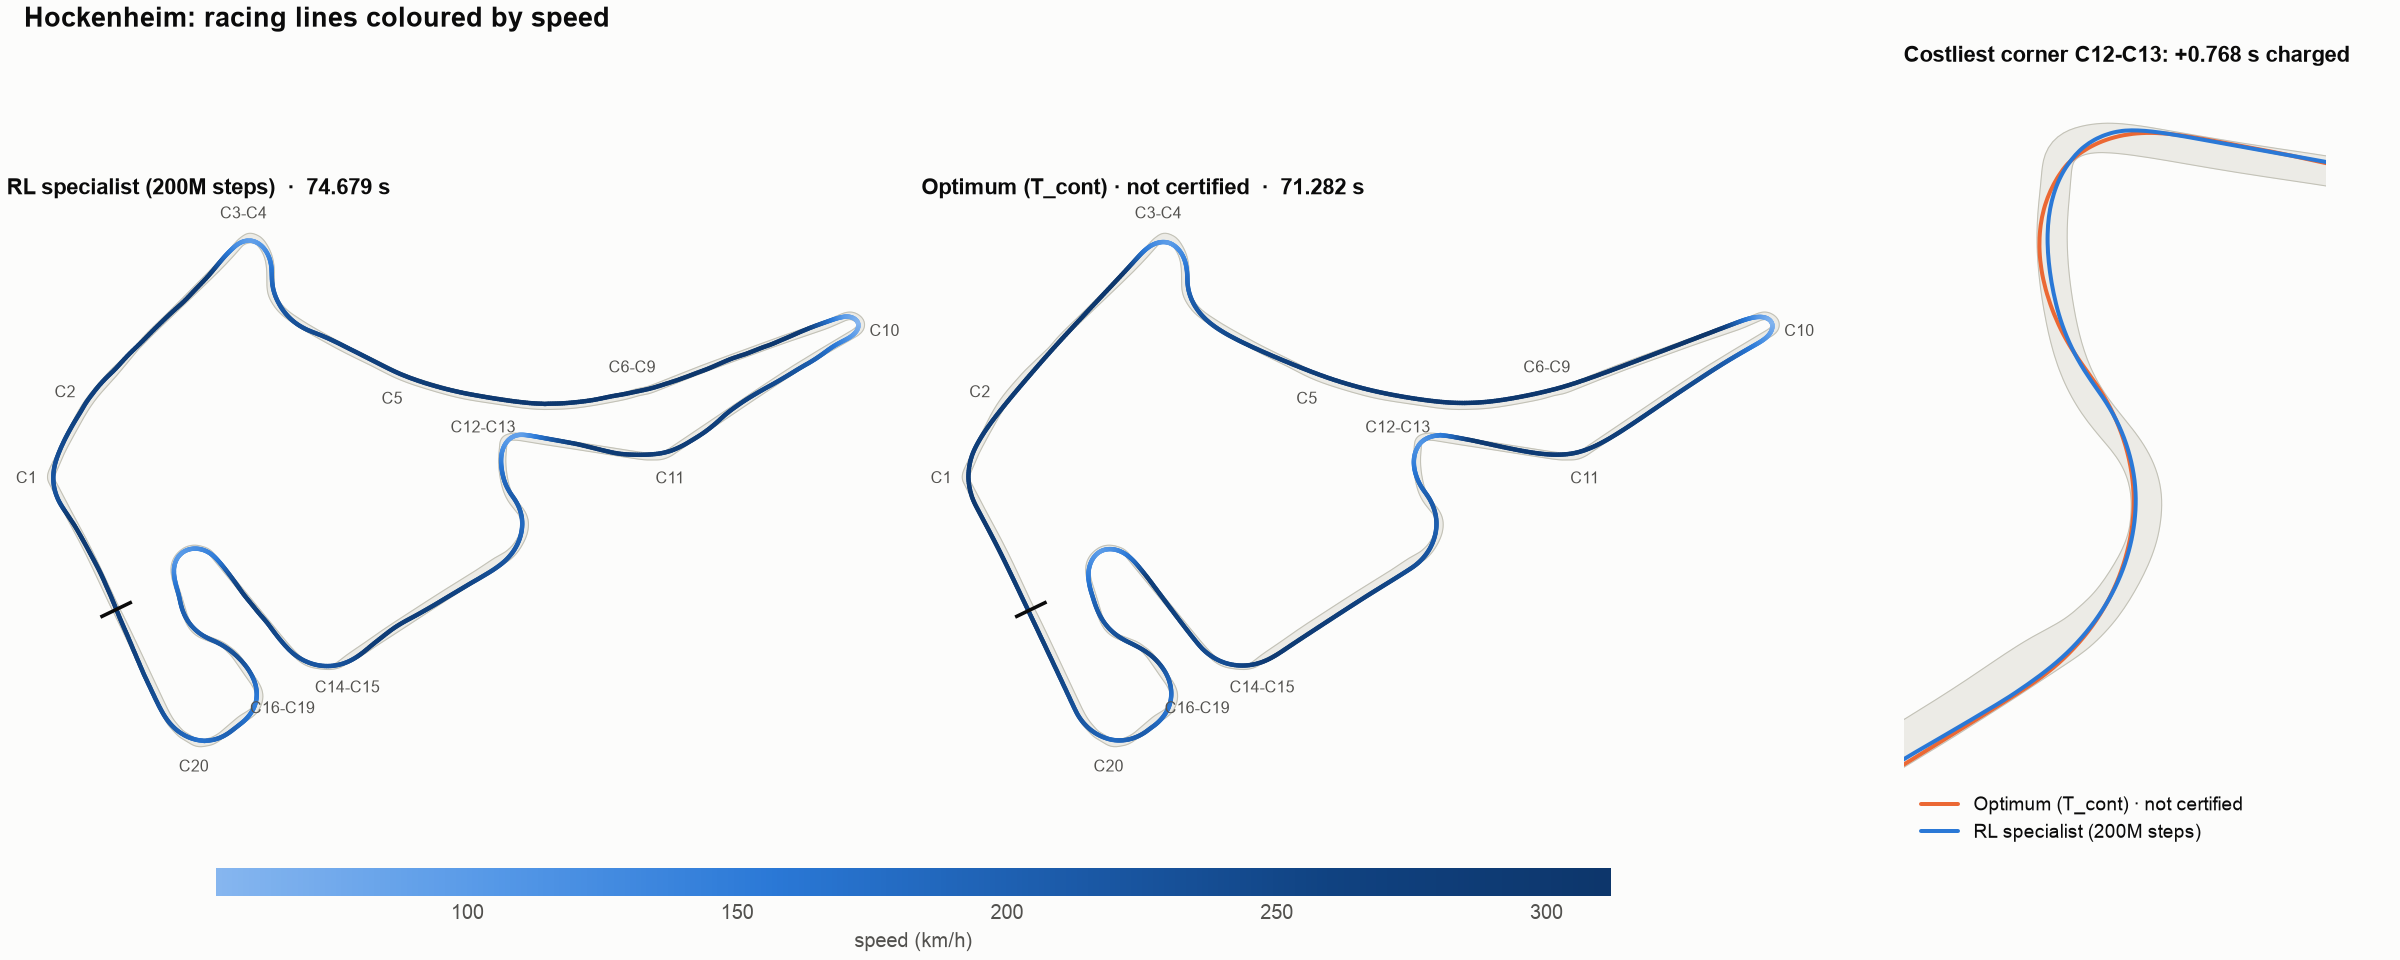
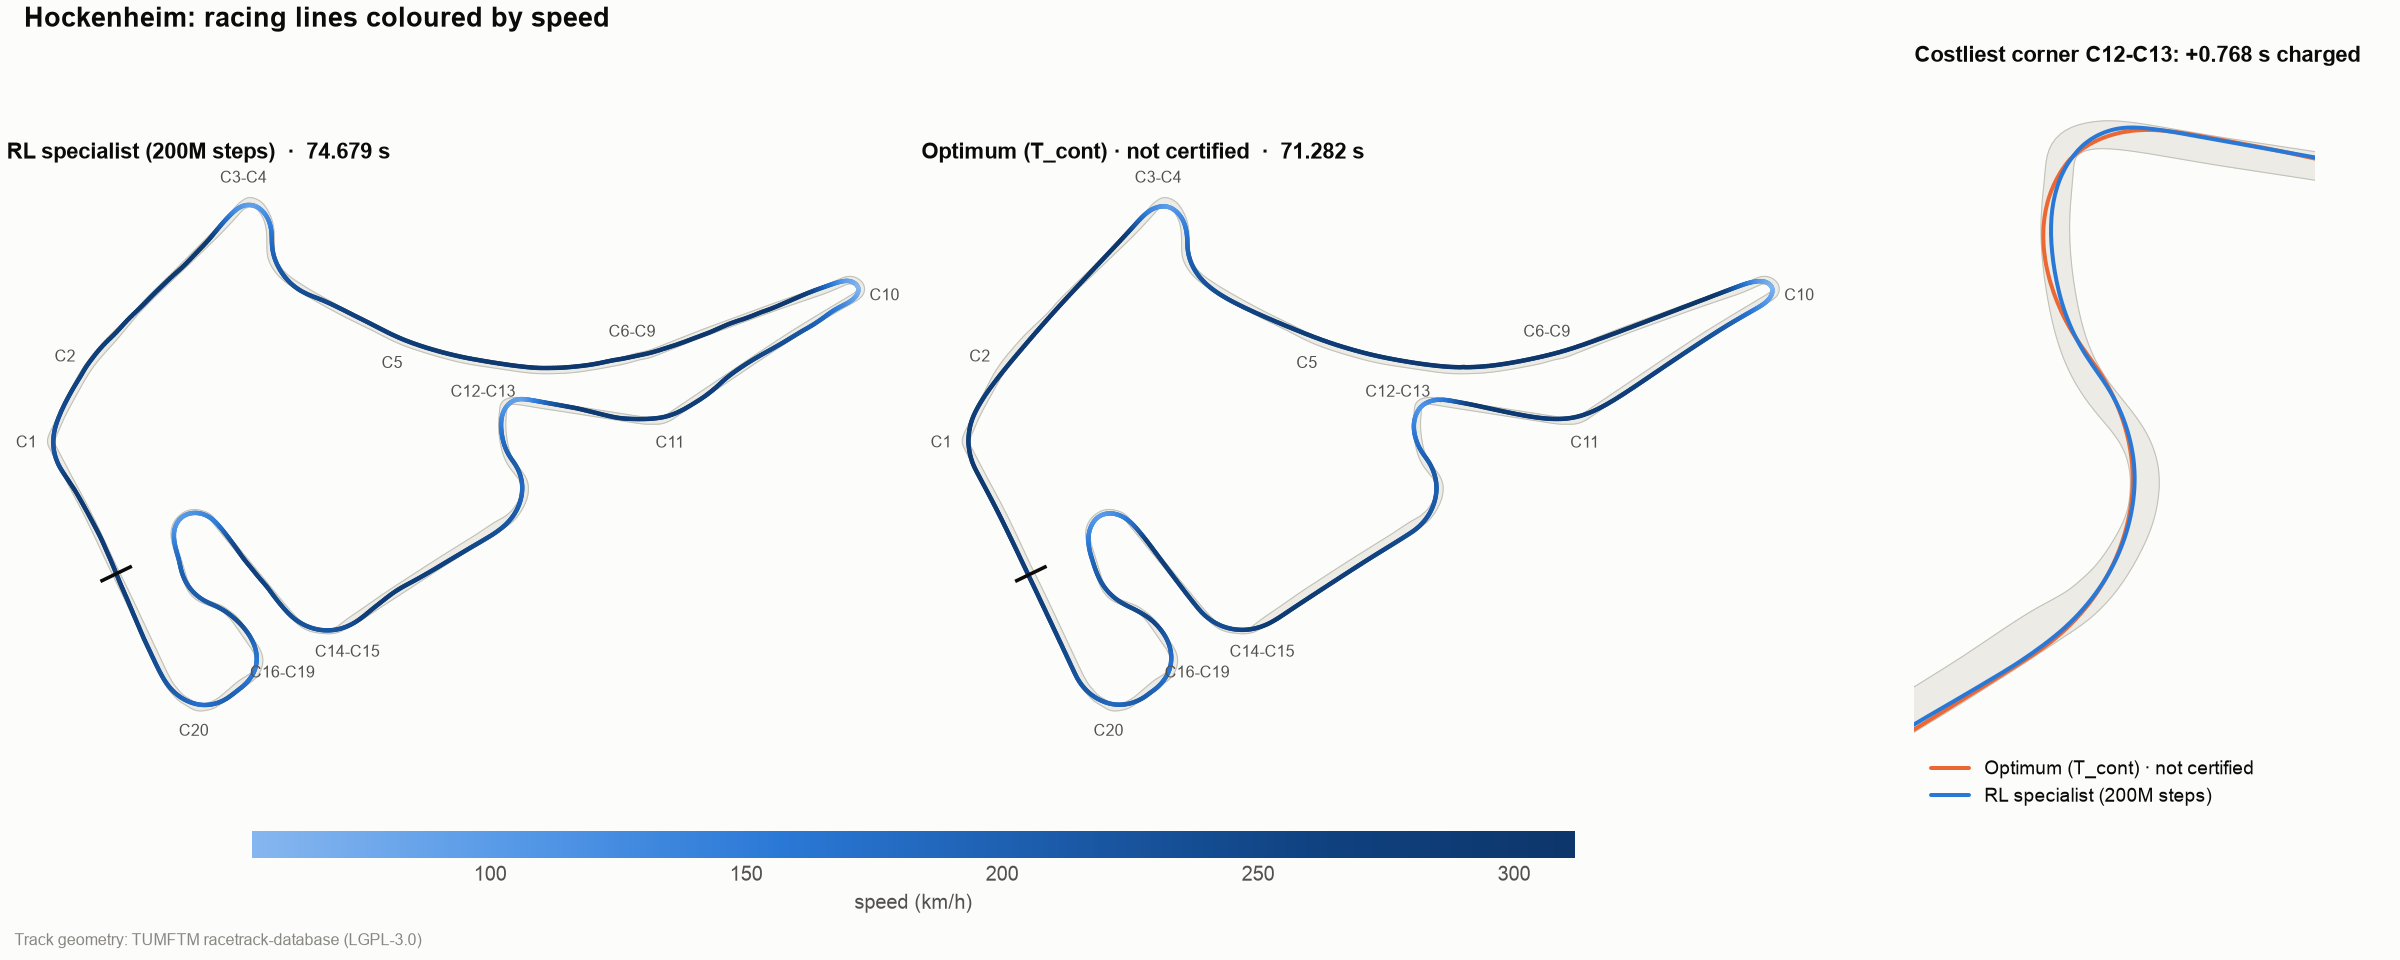
Demo: MVP-1 lite clip and a POST HOC R-dev generalist ghost (DM-1)
MVP-1 lite: the Hockenheim specialist against the optimum's ghost, the
optimum tagged NOT CERTIFIED (T_cont, not the replay-verified answer key).
The full timed lap plays at 1.3x real time, 60.0 s with the hold, and its
Delta-t ends at +3.397 s, the export's lap delta. Committed: two stills
(the costliest corner, C12-C13, and the finish).

Generalist ghost: the final checkpoint of dr-realw-loo-f2-s1 on Catalunya,
badged POST HOC, because it was shown for completing the most R-dev
circuits (11 of 12) of the leave-out runs, not by a pre-registered rule.
Catalunya's widths were held out of its training, but its curvature
grammar was fitted on all 12 R-dev circuits. The lap is 81.154 s against
the optimum's 75.647 s (+7.28%, matching eval_rdev.json). Committed: the
three figures and two stills.

Every committed figure and still carries the TUMFTM (LGPL-3.0) footer, and
the Hockenheim figures are regenerated with it; their numbers are unchanged.
The exports, viewer pages, WebP previews and PNG masters stay local
(git-ignored). docs/demo/README.md has the regeneration commands.

diff --git a/docs/demo/README.md b/docs/demo/README.md
@@ -10,11 +10,19 @@ Hockenheim specialist and the s-domain OCP). Re-run them on final agents with th
 | `hockenheim-specialist-sectors.png` | Time per corner: the bar is what the corner is charged, the outline what the clock measured inside the sector. Both sum to the lap delta | yes |
 | `hockenheim-specialist.json` | `apexzero.trajectory` 1.1 export: track centreline and edges, corner sectors, two ghosts (agent, optimum), Δt(s), and per sector the measured and charged time and the entry, exit and minimum speeds | no, regenerate |
 | `hockenheim-specialist.html` | The static viewer with that export embedded. Open it straight from disk | no, regenerate |
+| `hockenheim-mvp1-worst.png`, `hockenheim-mvp1-end.png` | MVP-1 lite stills: the specialist at the apex of its costliest corner (C12-C13), and the finish | yes |
+| `hockenheim-mvp1.webp`, `hockenheim-mvp1-frames/` | The MVP-1 lite clip: an animated WebP preview, and the lossless PNG master sequence with `frames.json` | no, regenerate |
+| `catalunya-generalist-{map,speed-delta,sectors}.png` | The same three figures for the R-dev generalist ghost on Catalunya, badged POST HOC | yes |
+| `catalunya-generalist-worst.png`, `catalunya-generalist-end.png` | Stills of the generalist ghost against the optimum: at the apex station of its costliest corner complex (C13-C15), and the finish | yes |
+| `catalunya-generalist.json`, `.html`, `.webp`, `-frames/` | Its export, viewer page and clip | no, regenerate |
 
-The JSON and the HTML are not committed because they contain the TUMFTM track geometry
-(LGPL-3.0), and the repository's policy is to fetch that data by script, never to commit
-it. Regenerate them (about 10 s of CPU; needs the TUMFTM tracks under `data/`, the agent
-under `runs/` and the OCP under `outputs/`):
+Every committed figure and still carries the TUMFTM attribution in its footer.
+
+The JSON, the HTML and the clips are not committed because they contain the TUMFTM track
+geometry (LGPL-3.0), and the repository's policy is to fetch that data by script, never to
+commit it; the clips are large as well. Regenerate the exports (about 10 s of CPU each;
+needs the TUMFTM tracks under `data/`, the agent under `runs/` and the OCP under
+`outputs/`):
 
 ```bash
 uv run python scripts/export_demo.py
@@ -24,6 +32,64 @@ uv run --group rerun python scripts/export_demo.py --rrd /tmp/hockenheim.rrd   #
 Other exports load into `src/apexzero/viz/viewer/index.html`. Drop the file on the page, or
 serve the repository and open `.../viewer/index.html?data=/docs/demo/<name>.json`. The URL
 also takes `t=<s>`, `follow=<ghost id>`, `rate=<x>`, `play=1` and `speed=1`.
+
+## Render mode (clips, frame sequences, stills)
+
+`scripts/render_demo.py` draws an export frame by frame (`apexzero.viz.render`). It reads
+only the JSON, like the figures, and needs nothing beyond the default `viz` group: frames
+are drawn on matplotlib's Agg canvas and animations are written with Pillow, which
+matplotlib already depends on. No browser and no ffmpeg are involved.
+
+- **The frame:** a camera that follows one ghost (or `--camera full` for the whole
+  circuit), a minimap, the lap clock, each ghost's speed with its badges as chips, and the
+  live Δt: how far the followed ghost is behind the reference at the distance it has
+  reached, t − t_ref(s(t)). The strip below draws Δt(s) up to that point. Δt ends at the
+  export's lap delta. An optimum without the CERTIFIED badge carries a NOT CERTIFIED chip.
+- **Outputs:** `--frames` writes the lossless PNG master (`<name>-frames/frame_00000.png`
+  …, plus `frames.json` with the lap time of every frame). `--clip webp` (or `gif`,
+  `apng`) writes an animated preview, and `--stills worst,end,<seconds>` writes single
+  frames. `worst` puts the followed ghost at the apex station (minimum reference radius)
+  of its costliest corner complex, by charged time.
+- **Pillow holds every frame of an animation in memory**, so previews default to 854×480
+  at 20 fps, about 2 GB for a 60 s clip. The call refuses above 4 GB. GIF stores frame
+  durations in 1/100 s, so it accepts only 10, 20, 25 or 50 fps.
+- **MP4.** ffmpeg is not installed, and nothing here installs it. `--clip mp4` works only
+  if an `ffmpeg` binary is already on PATH. Otherwise encode the PNG master later with the
+  command in `frames.json`:
+  `ffmpeg -framerate 30 -i frame_%05d.png -c:v libx264 -pix_fmt yuv420p clip.mp4`.
+- **Cost on the Mac.** For the 60 s MVP-1 lite clip, the 1280×720, 30 fps master is 1,800
+  frames, 182 MB and about 3 min. The 854×480 WebP preview is 10.9 MB and another 3 min.
+- Lockbox circuits are refused by the export's track name, as everywhere else.
+
+### Regenerating each output
+
+Run from the repository root, in this order: each render reads the export written just
+before it.
+
+```bash
+# Hockenheim specialist against the optimum: export, viewer page and the three figures
+uv run python scripts/export_demo.py
+
+# MVP-1 lite: the full lap at 1.3x real time (57.4 s, plus a 2.5 s hold), stills, master, preview
+uv run python scripts/render_demo.py docs/demo/hockenheim-specialist.json --name hockenheim-mvp1 \
+    --rate 1.3 --hold 2.5 --frames --clip webp --stills worst,end \
+    --title "Hockenheim: the RL specialist against the optimum's ghost" \
+    --subtitle "MVP-1 lite. Lap 2 from a rolling start, deterministic policy. The optimum is the continuous-control s-domain OCP (T_cont): not certified."
+
+# The R-dev generalist ghost on Catalunya, badged POST HOC
+uv run python scripts/export_demo.py --track Catalunya \
+    --agent runs/dr-realw-loo-f2-s1/ckpt/000199884800.pkl \
+    --agent-label "RL generalist (DR, 200M steps)" --agent-badge "POST HOC" \
+    --name catalunya-generalist \
+    --note "POST HOC: the agent is the final checkpoint (199,884,800 steps) of dr-realw-loo-f2-s1. It is shown because it completed the most R-dev circuits (11 of 12) of the eight leave-circuits-out width runs (docs/findings/width-test.md, Section 7); it was picked after those results were seen, not by a pre-registered rule." \
+    --note "Training: domain randomisation on procedural strips (v3 grammar) with real width profiles from fold 2's circuits only (Hockenheim, Norisring, Oschersleben, Sochi, Melbourne, Zandvoort). Catalunya's widths were not in training, but the curvature grammar was fitted on all 12 R-dev circuits, so Catalunya is held out for widths only, not unseen."
+uv run python scripts/render_demo.py docs/demo/catalunya-generalist.json \
+    --name catalunya-generalist --rate 1.45 --hold 2.5 --frames --clip webp --stills worst,end \
+    --title "Catalunya: an R-dev generalist ghost against the optimum" \
+    --subtitle "POST HOC: checkpoint picked after the R-dev results, not by a pre-registered rule. Optimum: T_cont, not certified."
+```
+
+`render_demo.py` refuses to overwrite an existing frame sequence unless given `--overwrite`.
 
 ## What the numbers are, and are not
 
@@ -60,4 +126,21 @@ also takes `t=<s>`, `follow=<ghost id>`, `rate=<x>`, `play=1` and `speed=1`.
   at C1 the refined line has a short curvature spike (about 20 m) that both cars straighten.
 - `cmd_steer` and `cmd_pedal` are the commands the simulator applied (the policy output
   clipped to [-1, 1]), not the raw policy mean.
+- **The MVP-1 lite clip is sped up.** It plays the timed lap at 1.3× real time so it stays
+  under 60 s, and the frame says so next to the lap clock. The clock and Δt are lap times:
+  Δt ends at +3.397 s, the lap delta above.
+- **The Catalunya generalist is POST HOC.** It is the final checkpoint of
+  `dr-realw-loo-f2-s1`. It is shown because it completed the most R-dev circuits (11 of
+  12) of the eight leave-circuits-out width runs (`docs/findings/width-test.md`, Section
+  7). It was picked after those results were seen, not by a pre-registered rule, so the
+  ghost is badged POST HOC in the export, the figures, the viewer and the frames.
+  - Catalunya is held out for widths only: the run's real width profiles came from fold 2
+    (Hockenheim, Norisring, Oschersleben, Sochi, Melbourne, Zandvoort). Its curvature
+    grammar was fitted on all 12 R-dev circuits, so Catalunya is not an unseen circuit.
+  - Its lap is 81.154 s against the optimum's 75.647 s, a gap of 7.28% (T_cont, not
+    certified). The run's `eval_rdev.json` gives a median of 81.153 s over its 10 laps
+    and the same 7.28%. The exported lap differs from a fresh one-run `timed_laps` call
+    by 1.7e-5 s.
+  - It is a 200M-step DR network from the width study, not E0. The demo's real generalist
+    waits for E0 and `protocol-v1`.
 - Track geometry comes from the TUMFTM racetrack-database (LGPL-3.0).
